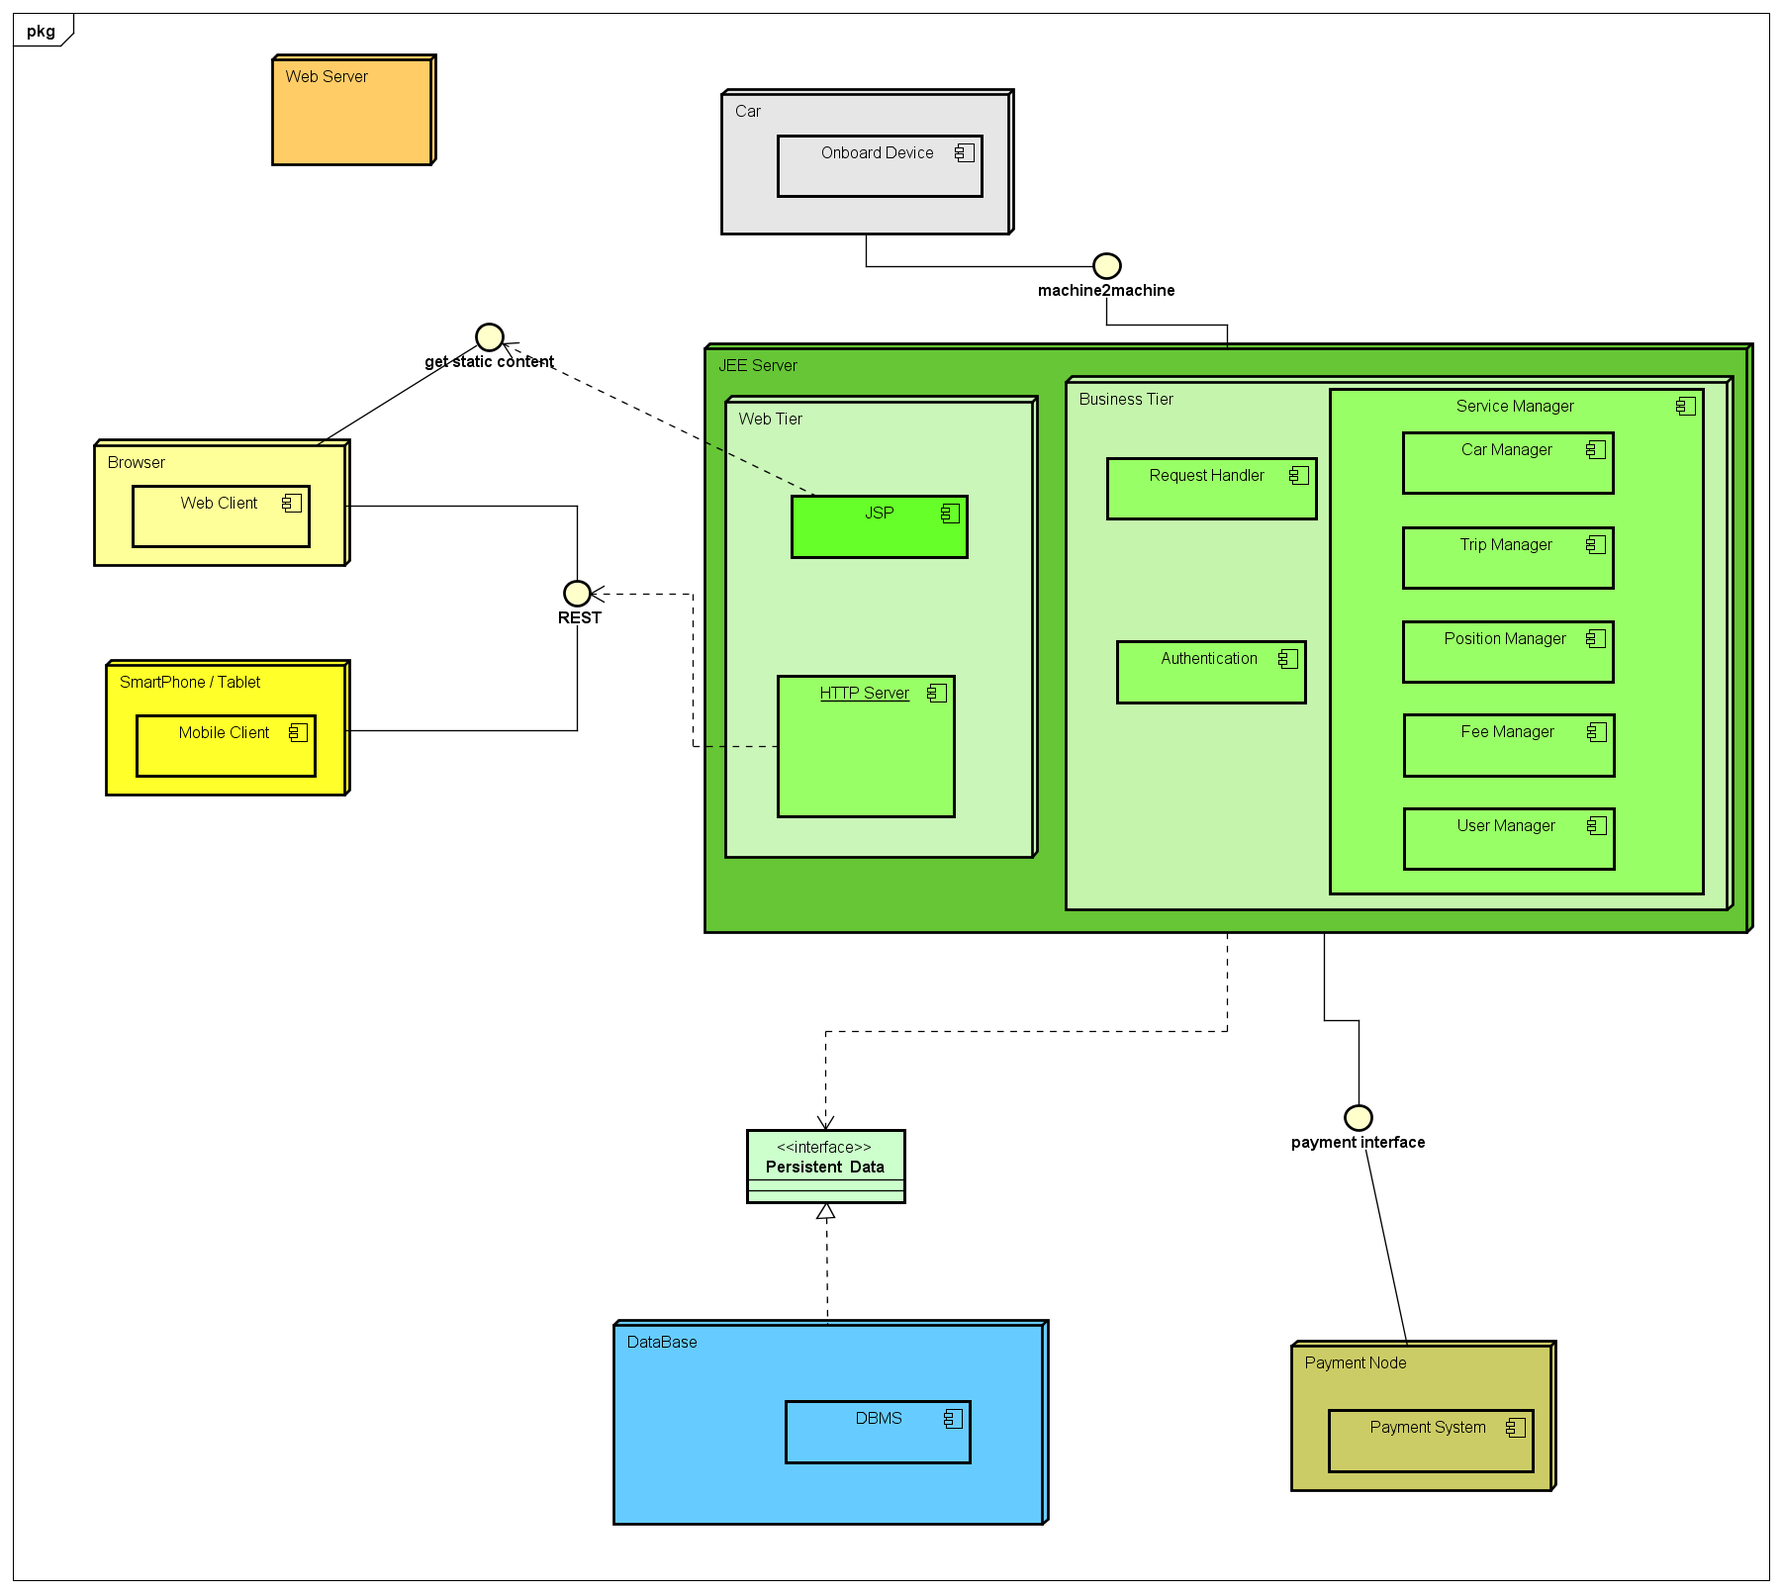
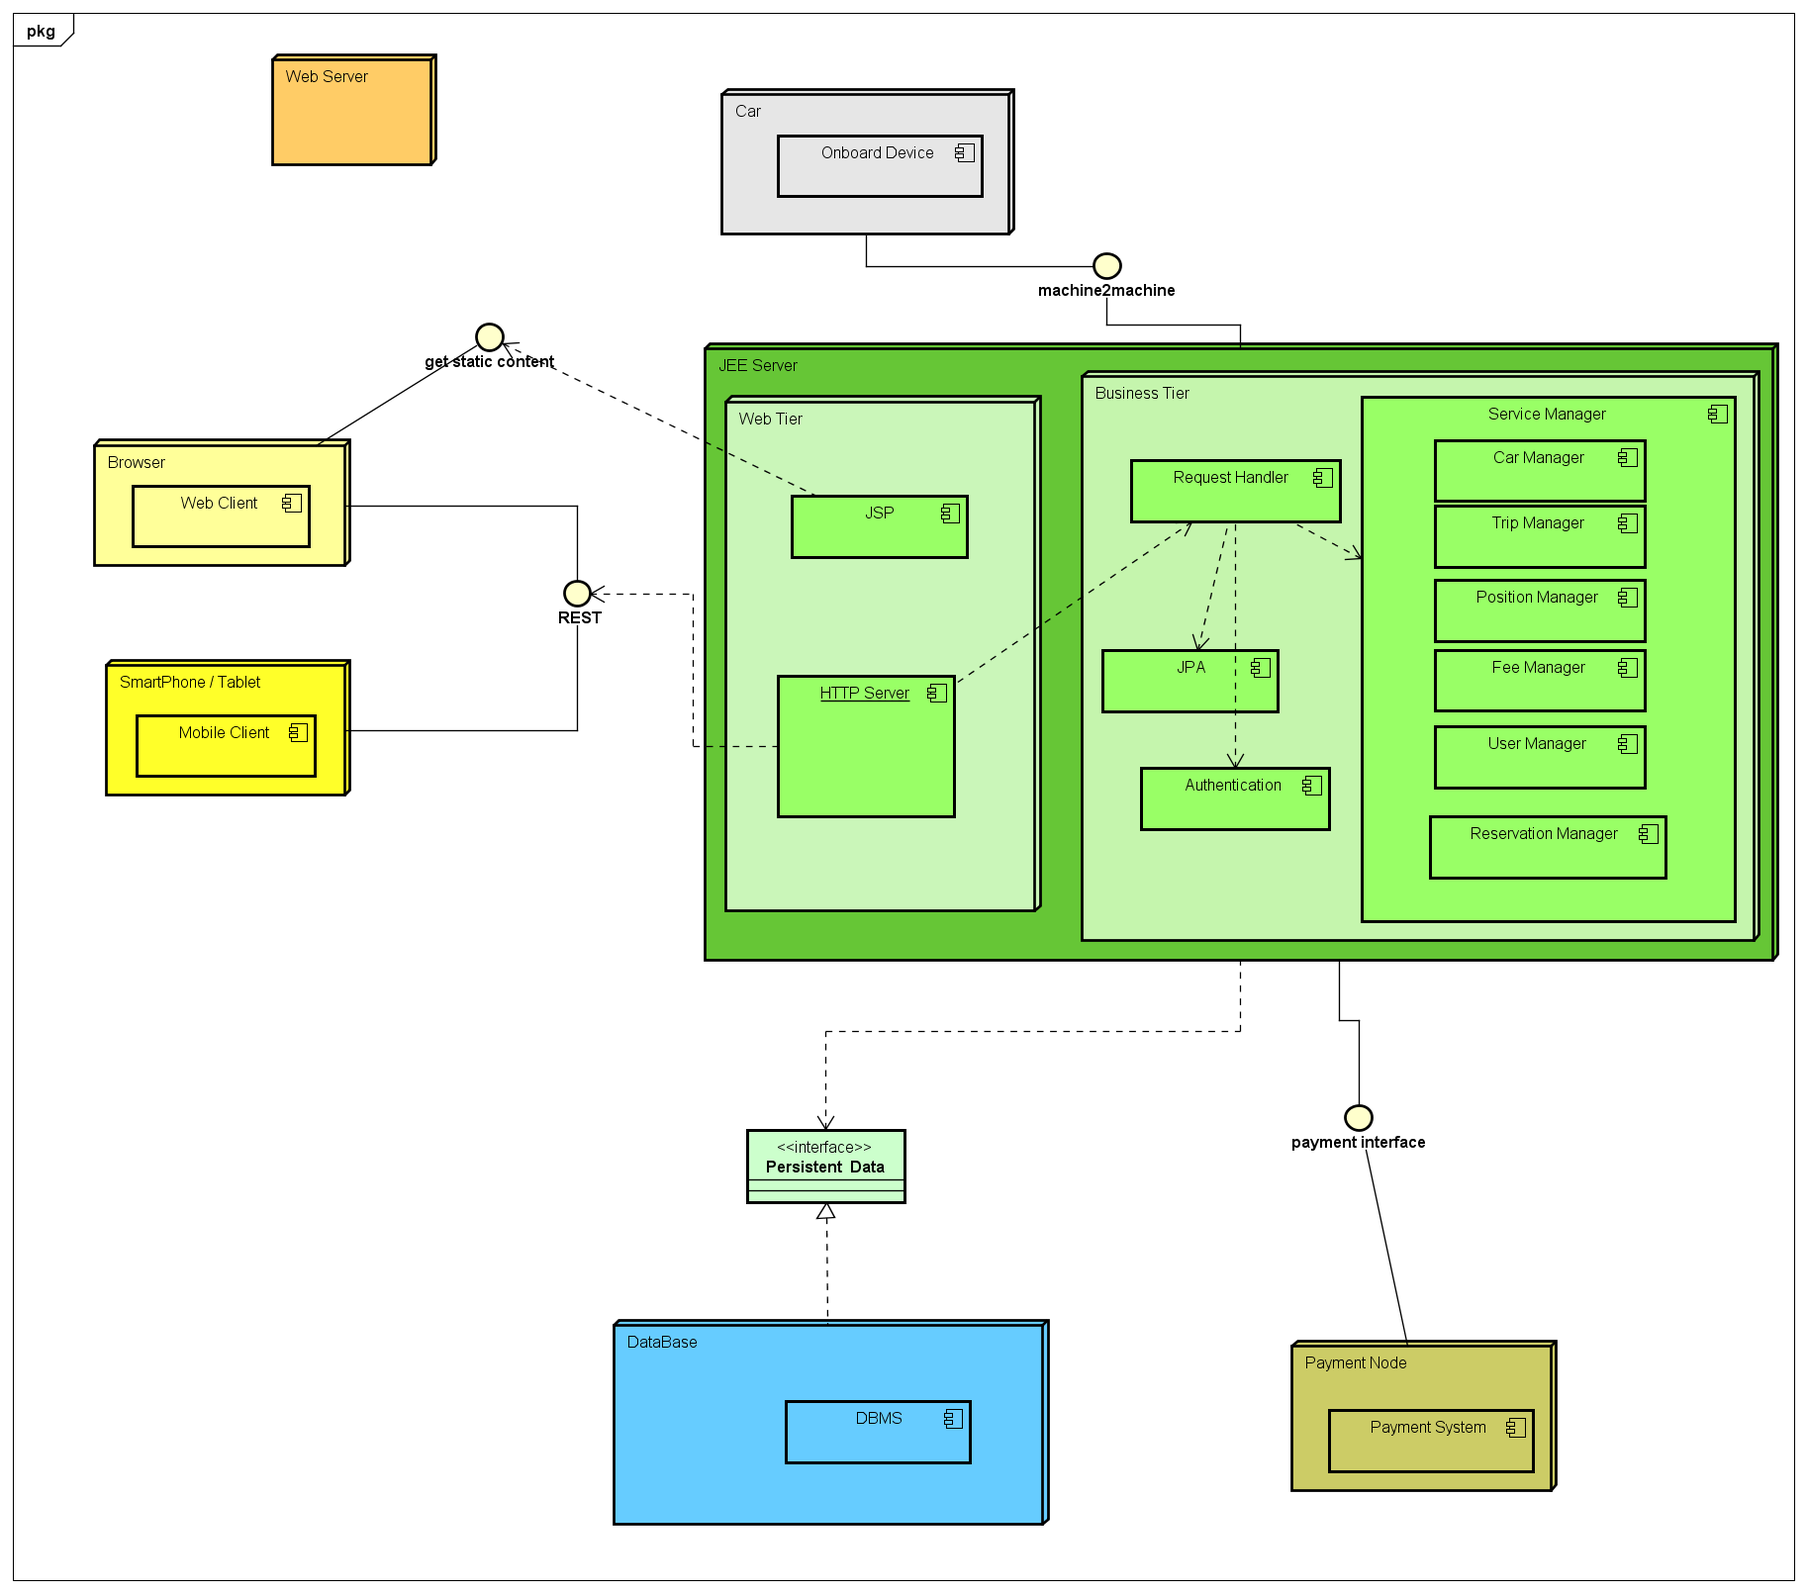
Added UX diagram, changed the architecture diagram, small changes in deployment diagram and sequence diagram

diff --git a/DD/Architectural_Design.tex b/DD/Architectural_Design.tex
@@ -2,16 +2,16 @@
 \subsection{Overview} 
 In this section is provided a complete overview of all the system components, from the logical level to the physical level of the PowerEnJoy service. First of all we give a description of the high level components and their interaction.\newline
 
-\noindent From an high level prospective the service is composed by different modules allowing development and maintenance flexibility.This modularity allow also scalability for future service expansion, \todo{espandere il concetto} \newline
+\noindent From an high level prospective the service is composed by different modules, that are: \newline
 
 
 \begin{itemize}
 \item{\textbf{Database:}} the data layer of the service. All the persistent data will be stored in this layer.
 \item{\textbf{Application Server:}} this component will manage the Business logic.
-\item{\textbf{HTTP Server:}} this layer is the interface with the world. It will manage the requests from the users and the website.
-\item{\textbf{Mobile Application Interface:}} this is the interface between the Mobile User and the system. The user will use it to send requests to the web Server and see the results sent back through his mobile device. 
+\item{\textbf{HTTP Server:}} this layer is the interface with the world, so with che Clients. It will manage the requests coming from both application and website.
+\item{\textbf{Mobile Application:}} this is the interface between the Mobile User and the system. The user will use the application to send requests to the web Server and see the results sent back through his mobile device. 
 \item{\textbf{Car OnBoard Device:}} this is the module mounted on the car. It will communicate with the server and with the car ECU.
-\item{\textbf{Web Site Interface:}} this is the interface between the Web User and the system.The user will use it to send requests to the Web Server to get static contents and send requests to the Application Server to use the service.
+\item{\textbf{Web Site:}} this is the interface between the Web User and the system.The user will use it to send requests to the Web Server to get static contents and send requests to the Application Server to use the service.
 \end{itemize}
 
 	\begin{figure}[H]	
@@ -45,55 +45,85 @@ In the Backend there all those component that aren't used directly by the user, 
 \item Fee Manager: This component is responsible for the calculation and the application of discounts on the fee of the travels has the task of charging the user. For these reason it is interfaced with an external payment system. \todo{Forse dobbiamo decidere un sistema di pagamento}
 \end{itemize}
 
+\todo{aggiungere descrizione del reservation manager}
+
 \begin{figure}[H]	
 	\centering
 	\includegraphics[width=\textwidth]{img/backend_component_diagram}
 	\caption{Component Diagram}
 \end{figure}
 
+The communication between the clients (both mobile application and web site) are realized using a request-response methodology. The client asks for information or to make actions related to the server using \textbf{REST} requests and obtains a response from the server formatted as a \textbf{JSON} object, today the state of the art for web services communications.
+All the REST requests received by the \textbf{HTTP Server} are forward to and, then, processed by the Request Handler component. The Request Handler component is in charge of validating the request integrity, parsing it using the \textbf{REST Parser}component and check the authentication for the requests type that need a valid session.
 
-
-\newpage
-
-\subsection{Deployment view}
-
-
-The communication between the clients (both mobile application and web site) are realized using a request-response methodology. The client ask for information or make action related to the server using \textbf{REST} requests and obtain a response from the server formatted as a \textbf{JSON} object, today the state of the art for web services communications.
-All the REST requests received by the \textbf{HTTP Server} are processed by the Request Handler component. The Request Handler component is in charge of validate the request integrity, parse it using the \textbf{REST Parser }component and check the authentication for the requests type that need a valid session.
-
-
-
-When a requests pass those check is forwarded to the Service Manager where the application logic is applied.
-The \textbf{Service Manager} in base of what request are received process a response using Car Manager, User Manager, Position Manager and Trip Manager.
+When a requests pass these checks is forwarded to the Service Manager where the application logic is applied.
+The \textbf{Service Manager}, depending on the types of request that are received,  processes a response using Car Manager, User Manager, Position Manager, Trip Manager or Fee Manager.
 Using those component the Service Manager can access the model, manage the request and craft a response.Every request can instantiate different component,
-
 
 The system status are represented through various \textbf{Java Beans} object that stay alive for all the time needed for the request processing.
 
-
 When a request is received all the element from the model needed for the processing are loaded from the persistent data storage through the \textbf{Persistent Data interface}. The abstraction exposed by the Persistent Data interface allow to adopt different data storage solution in a transparent way to the various component that are using it. All the persistent data are stored through a distributed database that can optimize data access.
 
-The \textbf{Position Manager} implements the logic for the manage of the position and the distance between cars, users and safe area. It also handle which cars show to the user in base of the a chosen radius. \ref{algoritmo_posizione}
+\newpage
 
-The \textbf{Car Manager} manage the car status and if a request is legit send a request to the specific On Board device to unlock the car.
-
-\todo{Trip e User}
-
-
+\subsection{Deployment view}\label{deployment}
+ 	
 \begin{figure}[H]	
 	\centering
 	\includegraphics[width=\textwidth]{img/deployment_diagram}
 	\caption{Deployment Diagram}
 \end{figure}
-
 \todo{tolto il web server, inserito JSP per gestire pagine statiche, inutile aggiungere un web server solo per quello}
+
+From the deployment perspective, the components described in the Component view will be installed on 3 different machines:
+
+\begin{itemize}
+\item \textbf{JEE Server}: On this machine will be installed a Glassfish server, that is an oper source application server supporting JEE. This Server will contain all the components handling the business and the web logic.
+\item \textbf{Database}: On this machine will be stored all the persistent data. On the database will be installed the latest version (5.6) of MySQL, a relational DBMS distributed by Oracle, that will handle the creation, deleting and updating of the tables of the databases containing the data.
+\item \textbf{Client}: This machine is the one that the user will use to use the Power EnJoy service. It can be a Mobile Device, so a SmartPhone or a Tablet, a PC or the OnBoard Device. On the Mobile Device will run the Mobile Application. If the user uses a PC instead, he will access the service using the WebSite, that runs on any kind of Browser. Lastly, when the user is driving, the Client machine will be the OnBoard Device, that is the device mounted on the Car, on which will run a proprietary software of Power EnJoy.
+\end{itemize}
+
 \newpage
 
 \subsection{Runtime view}
-\todo{You can use sequence diagrams to describe the way components interact to accomplish specific tasks typically related to your use cases F. }
-
-
+In this section we show the runtime behaviour of the system in various situations, in order to show which components have to act and how they interact.
+\begin{figure}[H]	
+	\centering
+	\includegraphics[width=\textwidth]{img/sequence_registration}
+	\caption{Sequence Diagram of the Registration process}
+\end{figure}
 \newpage
+
+\begin{figure}[H]	
+	\centering
+	\includegraphics[width=\textwidth]{img/sequence_login}
+	\caption{Sequence Diagram of the Login process}
+\end{figure}
+\newpage
+
+\begin{figure}[H]	
+	\centering
+	\includegraphics[width=\textwidth]{img/sequence_modification}
+	\caption{Sequence Diagram of the Modification of Personal Details process}
+\end{figure}
+\newpage
+
+\begin{figure}[H]	
+	\centering
+	\includegraphics[width=\textwidth]{img/sequence_search}
+	\caption{Sequence Diagram of the Search of Available Cars process}
+\end{figure}
+\newpage
+
+
+\begin{figure}[H]	
+	\centering
+	\includegraphics[width=\textwidth]{img/sequence_trip}
+	\caption{Sequence Diagram of the Trip process}
+\end{figure}
+\newpage
+
+
 
 \subsection{Component interfaces} 
 \subsubsection{REST}
@@ -105,7 +135,6 @@ As explained in the introduction the communication takes place via REST requests
 			\hline 
 			CRUD & REST Http & example &description\tabularnewline
 			\hline 
-			
 			Create & POST/PUT & POST /user/register  & Create a resource \tabularnewline
 			\hline 
 			Read & GET & GET /cars/zone/12 & Retrieve information. \\  Requests must be safe and idempotent.\tabularnewline
@@ -209,17 +238,27 @@ The Java Persistence API (JPA) is a Java application programming interface speci
 \newpage
 
 \subsection{Selected architectural styles and patterns}
-Please explain which styles/ pattern you used, why, and how
+
 \subsubsection{Architecture}
 
-We realized a 4-tiered architecture. In particular, the data layer, the presentation layer, the web server and the application server will have their own dedicated machine. The reasons why we made this choice concern:
+We realized a 3-tiered architecture. In particular there are 3 dedicated machines for:
+
+\begin{itemize}
+\item Data Layer
+\item Presentation Layer
+\item Web Server and Application Server
+\end{itemize}
+
+The reader can see the organization of Tiers in details in \ref{deployment}
+\newline
+
+ The reasons why we made this choice concern:
 
 \begin{itemize}
 \item {\textbf{Security:}} Is possible to setup a DMZ for the webserver and filter malicious requests before they reach the application server.
 \item {\textbf{Scalability:}} Because of the separation of the layers, developers can modify existing functions or introduce new ones in any level (presentation, logic or data), leaving the other layers untouched.
 \item {\textbf{Performance:} The webserver do a massive use of cache and load balancer to serve only static content to minimize resource and traffic}
-\item {\textbf{Reliability:}} \todo{se introduciamo ridondanza con più di un server, possiamo dire che aumentano reliability}
-\item {\textbf{Availability:}}
+\item {\textbf{Reliability and Available:}} because of the partition of tasks in distinct machines, it's easier to check for failures and fix them. So the time the system is down for maintainance is reduced and, as conseguence, the time the system is operating properly and the probability to find a system ready to accomplish users requests is increased. Furthermore, reliability and availability can be further improved further by replicating the servers, so that a failure in a single server doesn't affect the operativity of the system,  but only temporary reduces performances.
 \end{itemize}
 
 
@@ -232,7 +271,8 @@ We realized a 4-tiered architecture. In particular, the data layer, the presenta
 \item{\textbf{Model-View-Controller:}} In the MVC pattern there are 3 entities: The Model, that contains methods to access the data, the View, that shows data to the user and allow him to perform actions, and the Controller, that elaborates the commands sended by the view manipulating and modifying  the data of the model.
 In our system the View is the Client, the Model is the Data Manager and the Controller is the Service Manager. Furthermore, between the View and the Controller we have put 2 middle components, to improve the quality and the performance of the system. The Web Server act as a request receiver and sends the commands of the View to the Request Handler. The Request Handler act as validator and activates the forwarding of the command to the Controller only if the request respects integrity and authentication constraints.
 
-\item{\textbf{Dependency Injection:}} Because of the amount of users  
+\item{\textbf{Resource Injection:}} Because of the amount of users , it is useful to have a mechanism that can inject objects in an application at runtime, so that the application hasn't to care about the creation of object everytime he needs it. So we decided to use JNDI service to name and lookup for resources and the Resource Injection mechanism provide by JEE, that allows to inject any resource in the JNDI into an object.
+\todo{da rivedere}
 
 \end{itemize}
 

diff --git a/DD/Algorithm_Design.tex b/DD/Algorithm_Design.tex
@@ -1,4 +1,6 @@
 \section{ALGORITHM DESIGN}
+In this section we present some algorithm that we consider relevant for the work of the developers.
+
 \subsection{Find cars near the user}
 \label{algoritmo_posizione}
 Both Users and Cars's positions are identified in the system by GPS coordinates (Latitude and Longitude).
@@ -48,3 +50,101 @@ HAVING
 acos(sin($user_lat) * sin(Lat) + cos($user_lat) * cos(Lat) * cos(Lon - ($user_lon))) <= r;
 \end{lstlisting}
 
+
+
+\noindent The Java-like code for the managing of the search by the Request Handler:
+\begin{lstlisting}[language=Java]
+public List search(String address, Position pos){
+	List result = new List();
+	
+	if(address != null){
+	Position position = extractCoordinates(address);
+	result = reservationManager.getAvailableCars(position); 
+	}
+	
+	else{
+	result = reservationManager.getAvailableCars(pos);
+	}
+	
+	return result;
+}
+\end{lstlisting}
+
+\newpage
+
+\subsection{Reservation}
+This is a Java-like code for the algorithm implemented in the Reservation Manager for the addition of a reservation and the management of the 1 hour timer of the reservation:
+
+\begin{lstlisting}[language=Java]
+public List reserve(Car c, User u,  String address, Position pos){
+
+ availableCars.delete(c);
+ 
+ reservations.add(new Reservation(u,c);
+ 
+ LocalTime begin = LocalTime.now()
+ int beginHour = begin.getHour();
+ int BeginMin = begin.getMinute();
+ boolean ko = false;
+ 
+ while(!ko){
+  	int hourDiff = LocalTime.now().getHour() - beginHour;
+  
+ 	if(hourDiff == 1){
+     		int minuteDiff= LocalTime.now().getMinute() - beginMin;
+     		if(minuteDiff > 0) {
+      		ko = true;		   
+     		}
+  	}
+ }
+
+notifyOberservers(``time_expired'');
+}
+ 
+
+
+annullaResSeE'FinitoIlTempo();
+
+}
+\end{lstlisting}
+
+\newpage
+
+\subsection{Payment, Discounts and Penalties}
+
+This is a Java-like code for the algorithm implemented in the Fee Manager for the payment and the application of discounts and penalties:
+
+\begin{lstlisting}[language=Java]
+public void getMoney(Travel t, int distanceFromStation){
+	
+	//the parameter distanceFromStation is the distance in km from the parking position to the nearest charging station, calculated by the Trip Manager
+	
+	int discount = 0;
+	int penalty = 0;
+	int fee = t.getFee();
+	
+	if(t.passengers >= 2){
+	discount = discount + 10;
+	}
+	
+	if(t.car.batteryLevel > 50){
+	discount = discount + 20;
+	}
+	
+	if(t.car.isPlugged){
+	discount = discount + 20;
+	}
+	
+	if(distanceFromStation > 3){
+	penalty = penalty + 30;
+	}
+	
+	fee = fee - ((fee*discount)/100) + ((fee*penalty)/100);
+	
+	pay(t.user.getpaymentMethod(), fee); //method that will send a request for the payment to the payment node, according to payment method of the user 
+	
+	
+}
+
+
+\end{lstlisting}

diff --git a/DD/DD.tex b/DD/DD.tex
@@ -242,6 +242,7 @@ breaklinks=false,pdfborder={0 1 1},backref=false,colorlinks=false]
 	\begin{enumerate}
 		\item \textbf{TeXstudio:} \url{http://www.texstudio.org/} to redact this document in {\LaTeX} format.
 		\item \textbf{Astah:} \url{http://astah.net} to draw all the UML diagrams presented in this document.
+		\item \textbf{Signavio:} \url{http://academic.signavio.com/} to draw the UX diagram.
 		\item \textbf{draw.io:} \url{https://www.draw.io} Online diagram software
 		\item \textbf{Balsamiq Mockups 3:} \url{https://balsamiq.com} to draw both mobile and web mockups of the service.
 		\item \textbf{Alloy Analyzer:}  \url{http://alloy.mit.edu/alloy/}to test the world model in compliance with the requirements.

diff --git a/DD/UX_Design.tex b/DD/UX_Design.tex
@@ -1,2 +1,8 @@
 \section{USER INTERFACE DESIGN}
-Provide an overview on how the user interface(s) of your system will look like; if you have included this part in the RASD, you can simply refer to what you have already done, possibly, providing here some extensions if applicable. 
+\subsection{UX Diagram}
+
+\begin{figure}[H]	
+	\centering
+	\includegraphics[width=\textwidth]{img/UX_design_document}
+	\caption{UX Diagram}
+\end{figure}
